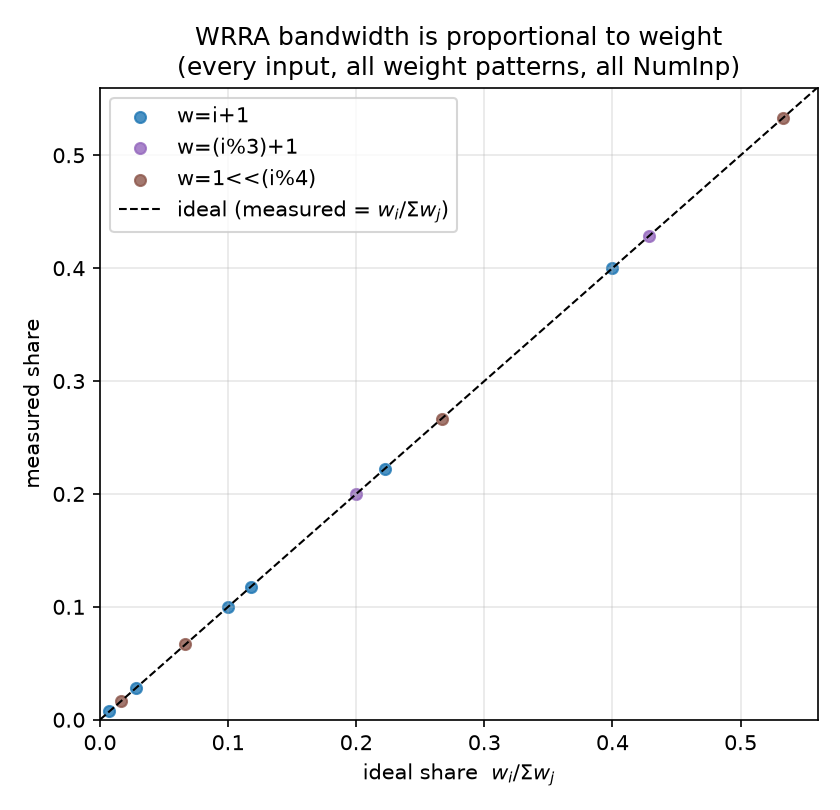
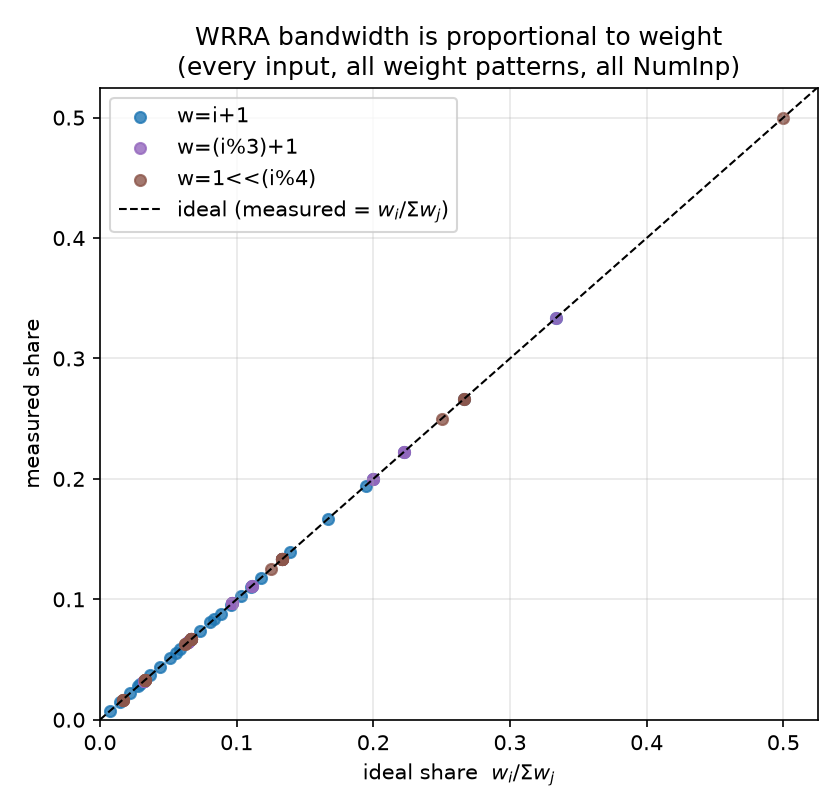
Populate cascade QoS share (fig8) from sim; refresh swept figures at N=5
fig8: high tier r0-r2 = 93% of destination bandwidth despite being farthest;
within-tier r0:r1:r2 = 3:1:1 (weight applied at the A0 merge); low tier r3,r4
kept alive by aging (~3-4%). §6.3.1 updated with the measured shares.

Also refresh fig1/fig5/fig6 from the new sweep (compare and wrrprop anchored at
N=5), and fix a warmup artifact in cc_qos_wrr_cascade_share_tb's maxwait (skip
the first per-source grant gap; shares were always correct).

diff --git a/doc/plots/plot_arbiters.py b/doc/plots/plot_arbiters.py
@@ -282,13 +282,13 @@ if qc:
     shares = [r["share"] for r in qc]
     # high tier (QoS>0) green, low tier (QoS0) orange
     colors = ["tab:green" if int(r["qos"]) > 0 else "tab:orange" for r in qc]
-    fig, ax = plt.subplots(figsize=(8.0, 4.6))
+    fig, ax = plt.subplots(figsize=(8.4, 4.8))
     bars = ax.bar(labels, shares, color=colors)
-    ax.set_ylim(0, max(shares) * 1.25 if shares else 1.0)
+    ax.set_ylim(0, max(shares) * 1.28 if shares else 1.0)
     ax.set_ylabel("end-to-end bandwidth share (at destination)")
     ax.set_title("QoS+WRRA through the 5-source cascade: priority survives 3 hops\n"
-                 "(high tier r0-r2 dominates; weighted split r0:r1=3:1 at the A0 merge; "
-                 "low tier kept alive by aging)")
+                 "high tier (r0-r2) dominates; within-tier r0:r1:r2 = 3:1:1; "
+                 "low tier alive via aging", fontsize=10.5)
     for b, s in zip(bars, shares):
         ax.text(b.get_x()+b.get_width()/2, s + max(shares)*0.02, f"{s:.3f}",
                 ha="center", fontsize=9)

diff --git a/doc/cc_wrr_arbiter.md b/doc/cc_wrr_arbiter.md
@@ -334,24 +334,35 @@ onto the cascade and a weighted pair in the high tier:
 | `r4`   | 1 (via A2)   | 0   | 1      | low  |
 
 Each source's share is counted **at the destination** (by the flit's source id), after 1–3 hops
-of re-arbitration. Three things fall out:
+of re-arbitration. Measured shares:
 
-* **QoS priority survives the cascade.** The high tier (`r0..r2`) dominates the destination
-  bandwidth even though those sources are the *farthest* — the exact opposite of fig2, where
-  unit weights starved `r0` to 1/12. QoS overrides the topological distance.
-* **The weighted split is realised at the merge.** The `r0 : r1 = 3 : 1` weighting is applied
-  where they actually compete (the A0 hop), so it shows up as a `3:1` split *within* the high
-  tier at the destination.
-* **Aging keeps the low tier alive.** `r3, r4` (QoS 0) never starve.
+| Source | QoS | weight | share @ dest | tier |
+| ------ | --- | ------ | ------------ | ---- |
+| `r0`   | 2   | 3      | **0.558**    | high |
+| `r1`   | 2   | 1      | 0.186        | high |
+| `r2`   | 2   | 1      | 0.186        | high |
+| `r3`   | 0   | 1      | 0.030        | low  |
+| `r4`   | 0   | 1      | 0.040        | low  |
+
+Three things fall out:
+
+* **QoS priority survives the cascade.** The high tier (`r0..r2`) takes **93 %** of the
+  destination bandwidth (0.558 + 0.186 + 0.186) even though those sources are the *farthest* —
+  the exact opposite of fig2, where unit weights starved `r0` to 1/12 (8 %). QoS overrides the
+  topological distance.
+* **The weighted split is realised at the merge.** `r0 : r1 : r2 = 0.558 : 0.186 : 0.186 =
+  3 : 1 : 1` — the `r0` weight of 3 is applied where the three high sources actually compete
+  (the A0 hop), and the ratio is preserved all the way to the destination.
+* **Aging keeps the low tier alive.** `r3, r4` (QoS 0) hold ~3–4 % between them; neither starves.
 
 ![QoS bandwidth share through the 5-source cascade](plots/fig8_qos_cascade_share.png)
 
 One honest nuance: with QoS tiers active, the **topological-fairness through-weights**
 (A1.through = 3, A2.through = 4) become *secondary* — QoS, not the port weights, now decides
-the bulk of the bandwidth split. They still shape how the small low-tier (aging) share is
-divided between `r3` and `r4`, but the headline split is set by QoS. (The numbers in fig8 are
-produced by the `cc_qos_wrr_cascade_share_tb` run on the sim machine; rerun `simulate-wrra.sh`
-and regenerate to populate them.)
+the bulk of the split. They still shape how the small low-tier share is divided between `r3`
+and `r4`, but the headline split is set by QoS. This is the cascade analog of the flat
+two-tier result (§6.1): the same QoS+weight+aging mechanism, now shown to hold end-to-end
+through a multi-hop NoC.
 
 ### 6.4 Observed limitation: intra-tier fairness under *periodic* preemption
 
